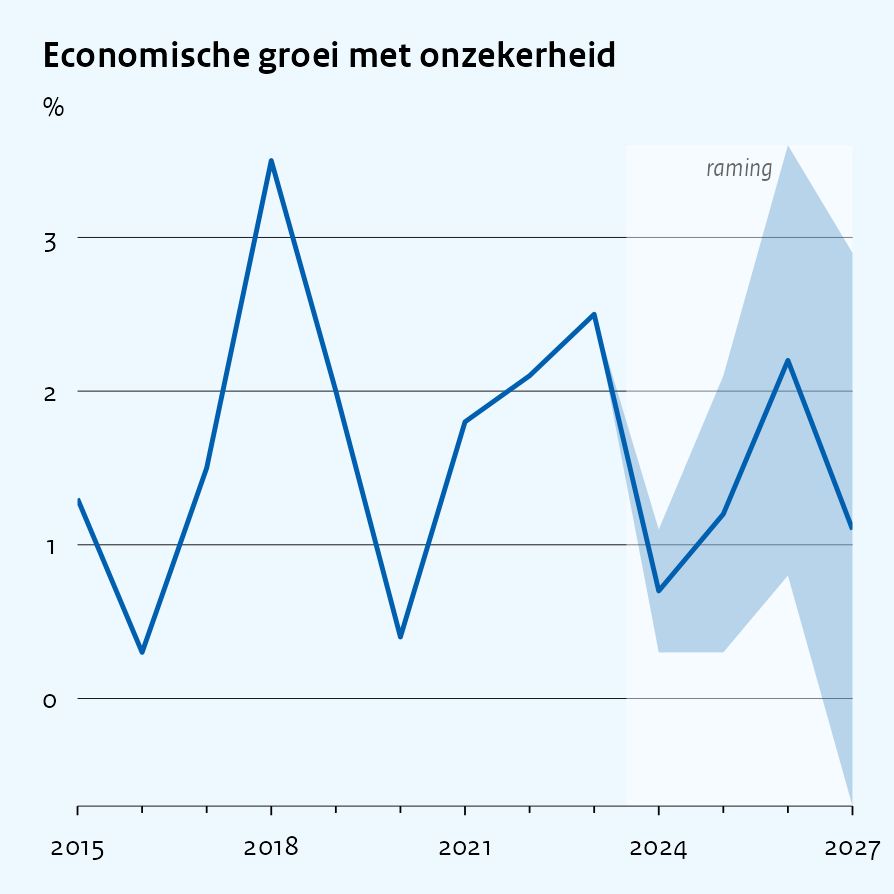
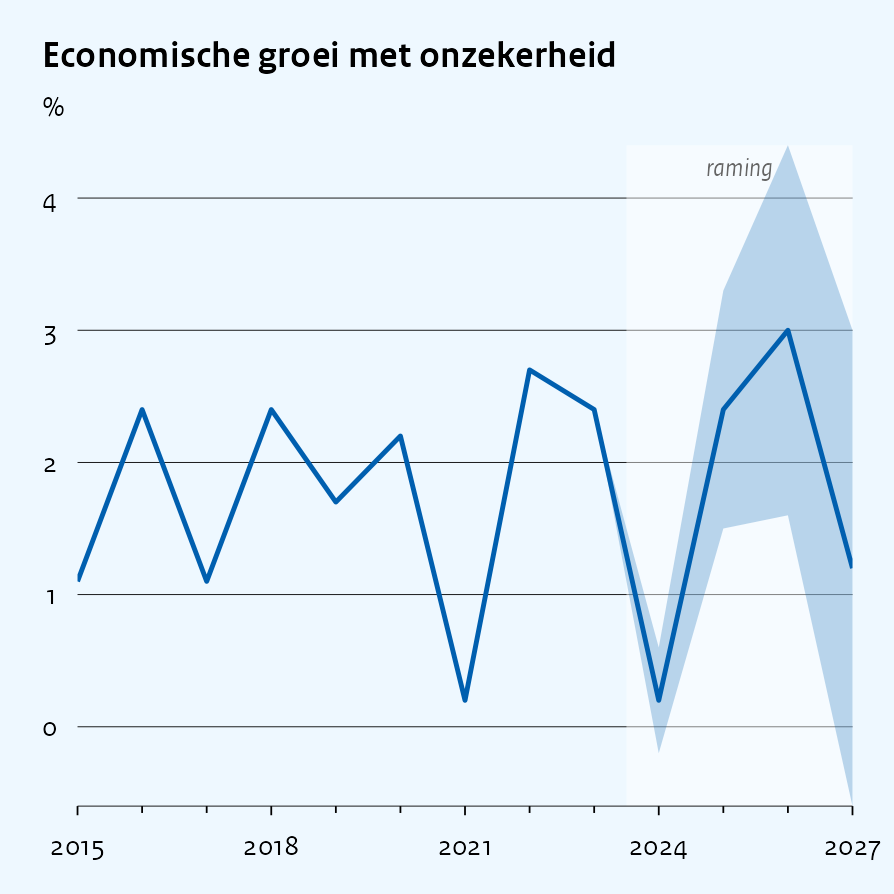
Add house-style facets: strips below panels, in every wrapper
All six wrappers gain facet/facet_ncol/facet_scales. Facets follow
the legacy nicerplot convention: the facet title is a bold 7pt strip
*below* its panel (facet_wrap strip.position = "bottom" with
strip.placement = "outside" in theme_cpb(), so the caption sits under
the axis text), and every panel is a complete mini-figure with its
own axes and axis labels (axes = "all"). Strip typography matches the
reference facet snippet (bold, left-aligned, blank background);
panel.spacing is 0.8 lines as in the reference.

Implementation is a single shared cpb_add_facet() helper called by
each wrapper. Covered by tests (facet forwarding in all six wrappers,
ncol/scales, theme placement), a new legend-stability variant (the
flush legend stays anchored under faceting; 32/32 stable), smoke-test
figure 19, and a new "Facets" section in the chart-types cookbook
(doc/ regenerated). 318 tests pass.

Claude-Session: https://claude.ai/code/session_01KyuF92FaLCz2M7MYNSrMyp

diff --git a/doc/chart-types.md b/doc/chart-types.md
@@ -314,6 +314,38 @@ cpb_hist(duur, x = maanden, binwidth = 2,
 
 <img src="chart-types_files/figure-gfm/hist-1.png" width="350px" />
 
+# Facets
+
+Every wrapper accepts a `facet` column. Facets follow the house (legacy
+nicerplot) convention: the facet title is a bold strip *below* each
+panel, and every panel is a complete mini-figure with its own axes.
+Control the grid with `facet_ncol` and shared-versus-free axis ranges
+with `facet_scales` (`"fixed"` by default, so panels are directly
+comparable):
+
+``` r
+regios <- expand_grid(regio = factor(c("stad", "platteland", "gemengd", "totaal"),
+                                     levels = c("stad", "platteland", "gemengd", "totaal")),
+                      groep = factor(c("laag", "midden", "hoog"),
+                                     levels = c("laag", "midden", "hoog")),
+                      jaar  = 2019:2025) |>
+  mutate(waarde = round(2 + as.numeric(groep) + cumsum(rnorm(n(), 0, 0.3)), 1))
+
+cpb_col(regios, x = jaar, y = waarde, fill = groep,
+  position   = "dodge",
+  facet      = regio,
+  facet_ncol = 2,
+  index      = c(6, 2, 5),
+  title = "Ontwikkeling per regio",
+  ylab  = "mld euro")
+```
+
+<img src="chart-types_files/figure-gfm/facets-1.png" width="700px" />
+
+A faceted figure usually needs a taller canvas: pass an explicit
+`height` to `save_cpb()` (here the figure is drawn 4.5 in tall on the
+full-page width).
+
 # Forecast windows and uncertainty bands
 
 Time-series figures mark the forecast part of the axis with a

diff --git a/TODO.md b/TODO.md
@@ -30,12 +30,12 @@ published reference figures in `references/plots/` (see the smoke test
   need height per facet row. Let `save_cpb()` (or the wrappers)
   derive a sensible default from the plot object, with the presets as
   fallback.
-- **Facets in nicerplot style** (priority): support faceting with the
-  legacy nicerplot look, i.e. facet titles placed *below* each panel
-  (strip.position = "bottom", styled like the house category labels)
-  rather than ggplot2's default strip on top; fold into the wrappers
-  (`facet =` argument) and calibrate strip typography/spacing against
-  legacy output.
+- **Facets in nicerplot style**: done -- every wrapper accepts
+  `facet` (plus `facet_ncol`/`facet_scales`); the facet title is a
+  bold strip *below* each panel and every panel gets its own axes
+  (see the cookbook vignette and smoke-test figure 19). Still open:
+  smarter default export height for faceted figures (see the plot
+  height item above).
 - **Visual snapshot tests**: the legend position is pinned by
   rendered-pixel tests, but the rest of the styling (gridlines,
   spacing, titles) has no regression net; add `vdiffr` snapshots for